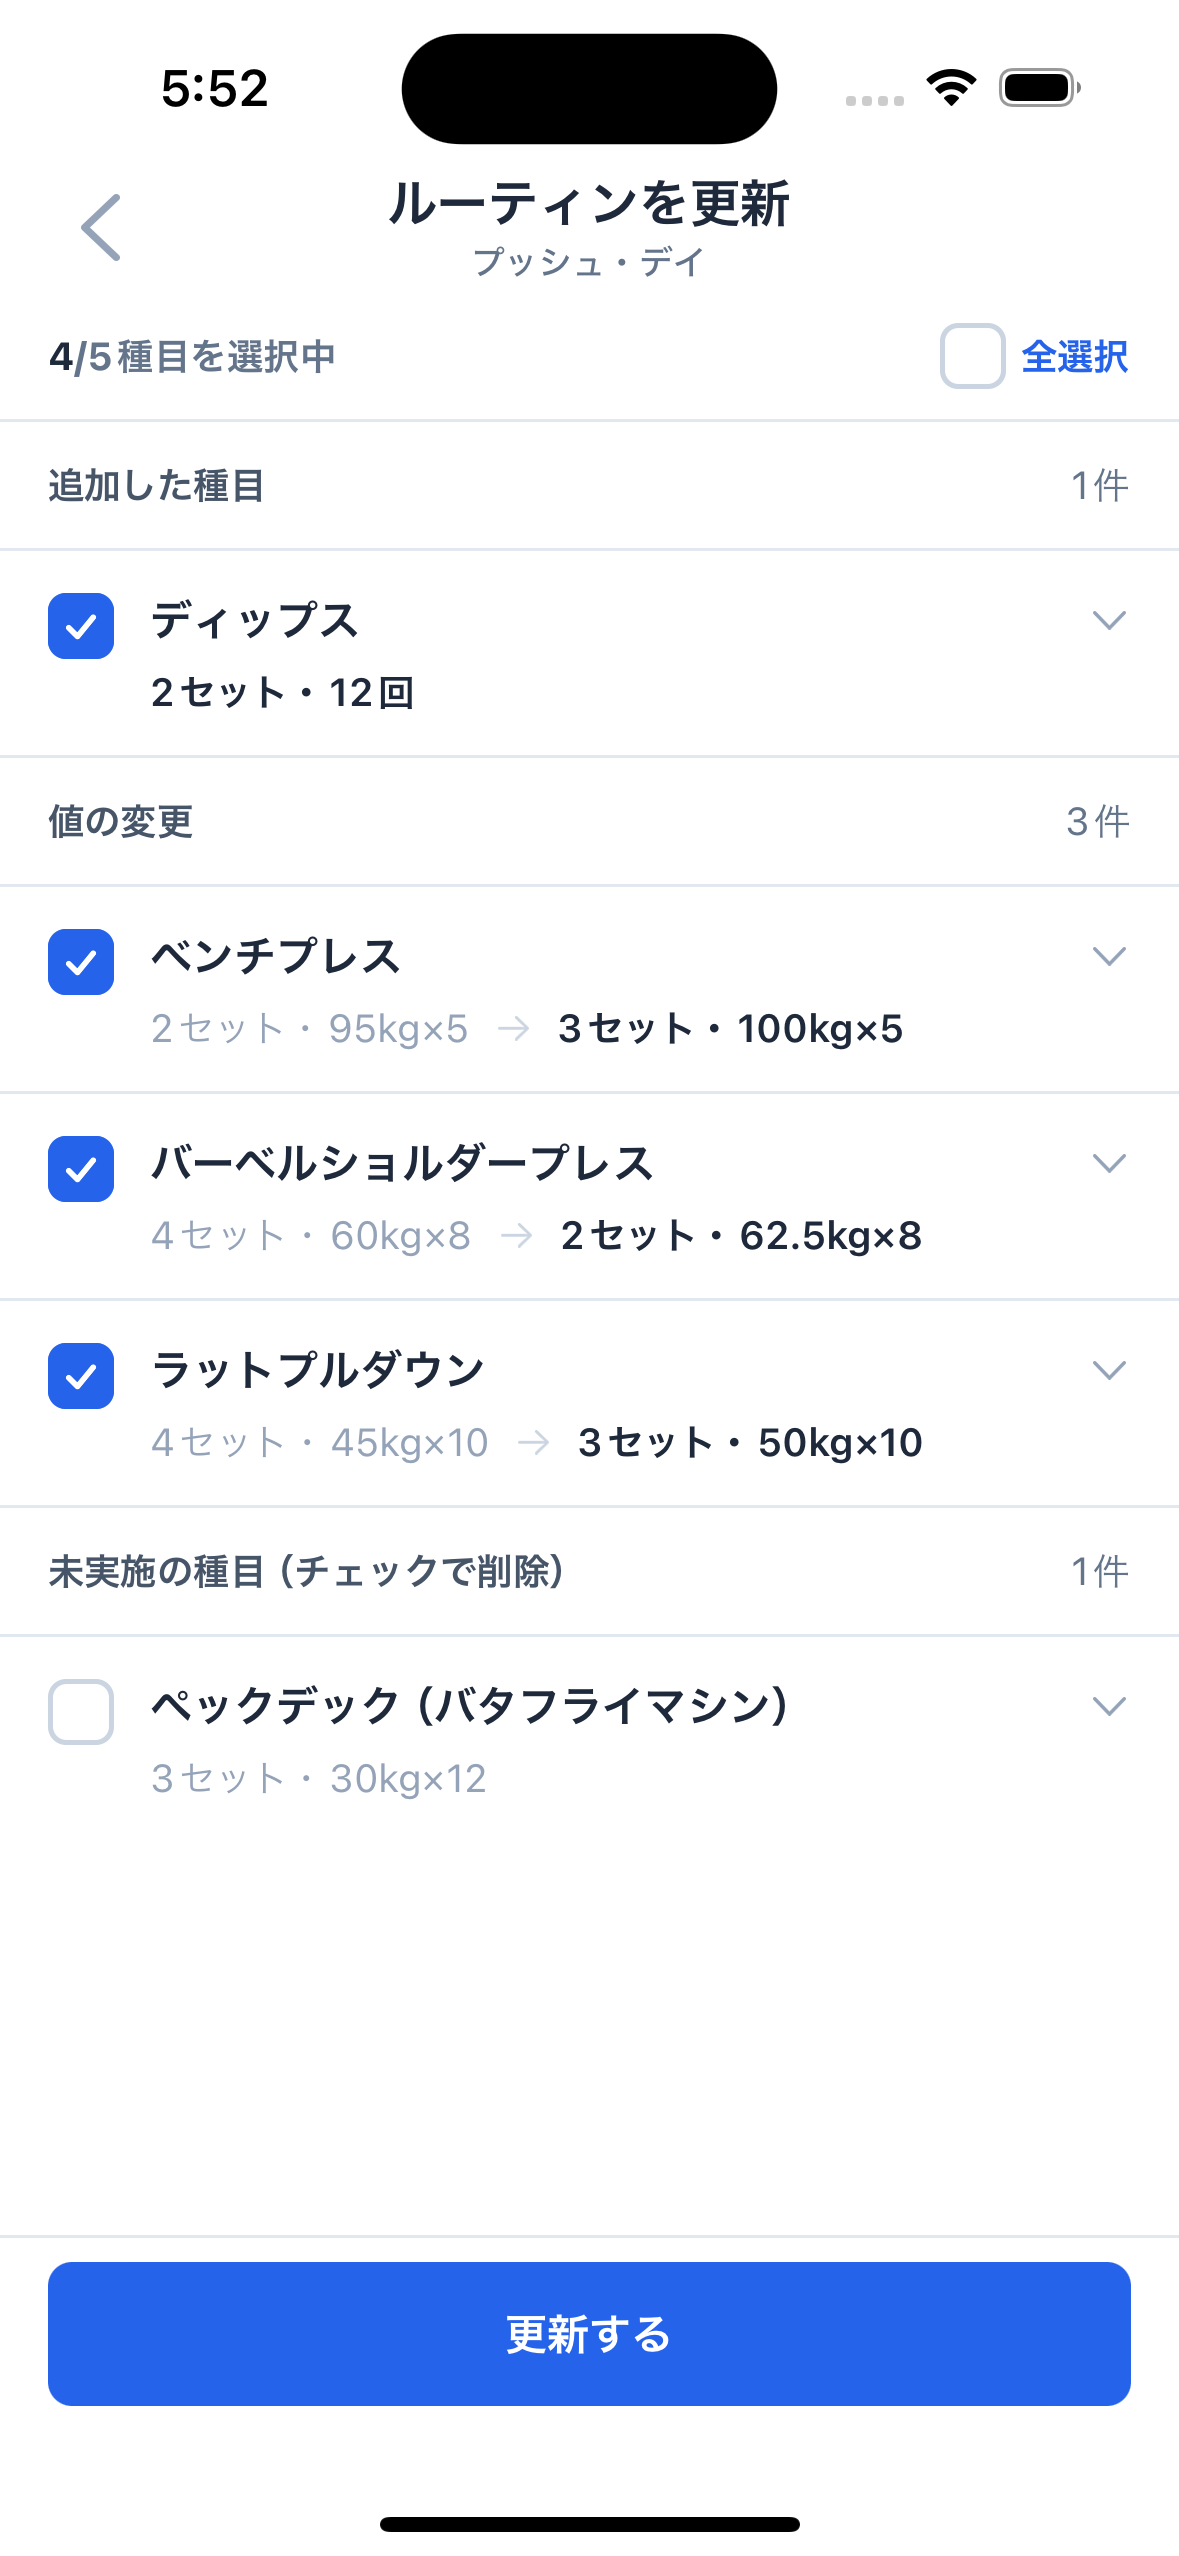
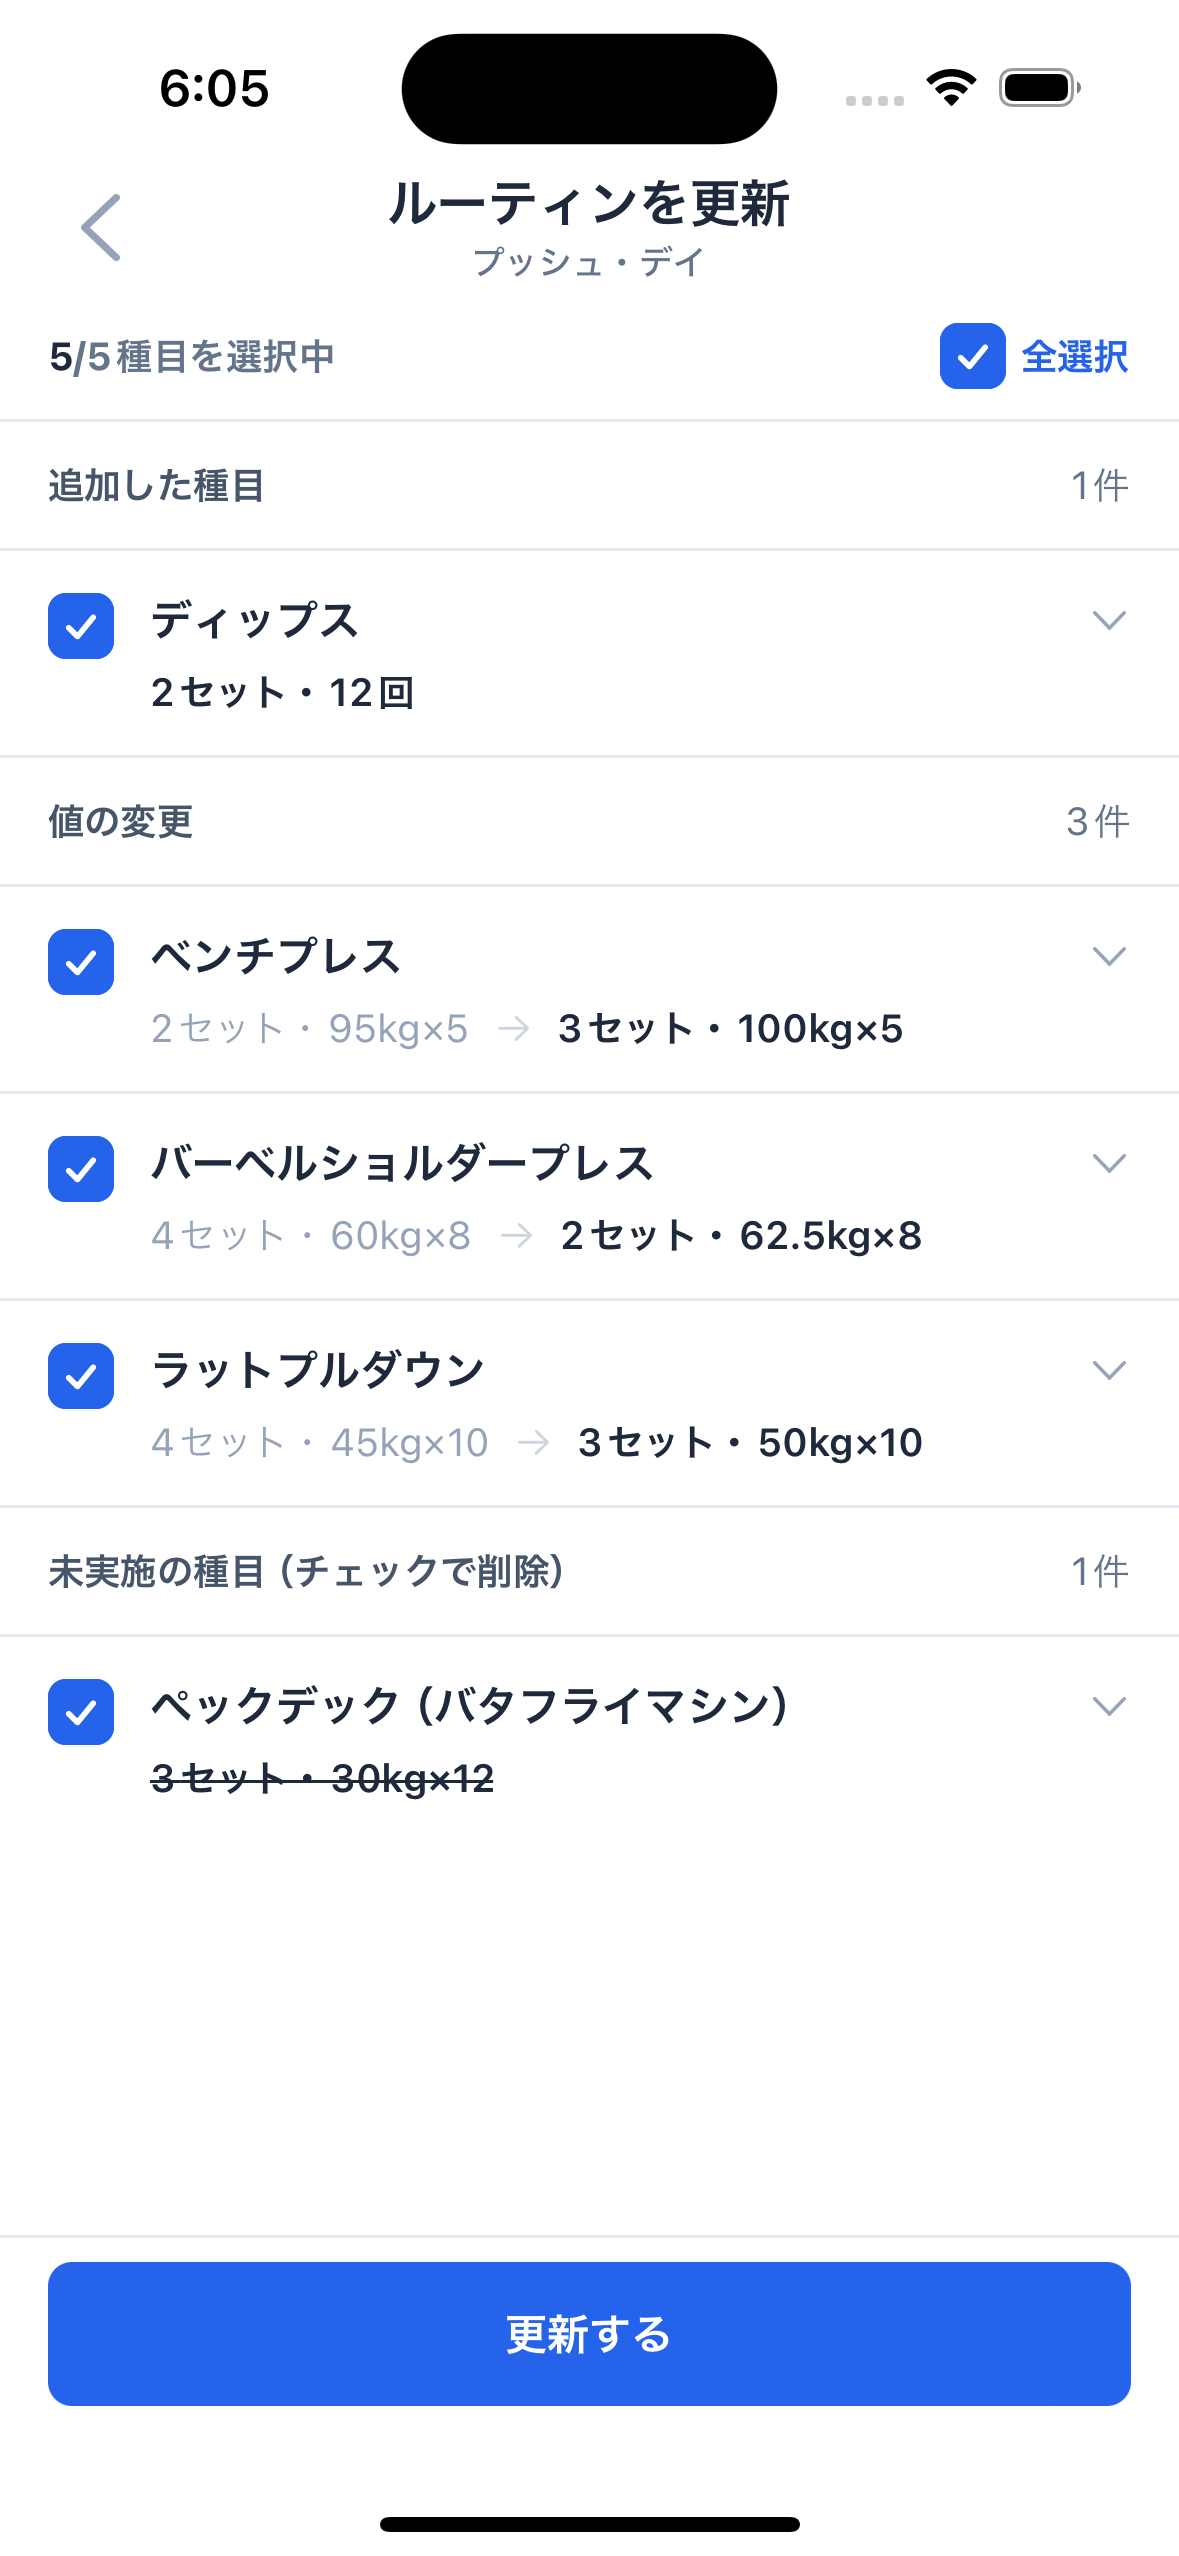
Check everything by default, skipped exercises included
Someone who opened this screen came to update; the values are on the
row to read. 未実施 no longer starts unchecked.

That does mean confirming without reading now drops an exercise you
merely ran out of time for, and there is no undo yet.

diff --git a/app/routine/update/[id].tsx b/app/routine/update/[id].tsx
@@ -22,10 +22,9 @@ type Section = { title: string; exercises: DiffExercise[] };
  * ルーティンのテンプレートと今日の実績の差分を種目単位で並べ、チェックしたものだけを反映する。
  * **確定ボタンを押すまでルーティンは一切変わらない。**
  *
- * 既定チェックは 追加=ON / 値の変更=ON / 未実施=OFF。未実施だけ既定オフなのは、
- * その日やらなかっただけの種目を型から消すのが多くの場合やってほしくない操作だから。
- * 下がった値も一律ONにするのは、確認画面まで来た人は「更新しに来ている」ため
- * （個々の値は行の「ルーティン → 今日」で確認できる）。
+ * **既定は全チェック**（未実施の種目も含む）。確認画面まで来た人は「更新しに来ている」ため、
+ * 個々の値は行の「変更前 → 変更後」で確認できるという前提（2026-08-07 ユーザー判断。
+ * それまでは未実施だけ既定オフだった）。
  */
 export default function RoutineUpdateScreen() {
   const { id, sessionId: sessionIdParam } = useLocalSearchParams<{ id: string; sessionId: string }>();
@@ -66,11 +65,9 @@ export default function RoutineUpdateScreen() {
   const diffKey = allKeys.join('|');
   const selection: DiffSelection = useMemo(() => {
     if (selectionState?.key === diffKey) return selectionState.value;
-    const defaults = new Set<string>();
-    for (const e of resolved?.added ?? []) defaults.add(e.key);
-    for (const e of resolved?.changed ?? []) defaults.add(e.key);
-    return { exercises: defaults, sets: new Map() };
-  }, [selectionState, diffKey, resolved]);
+    // 既定は全チェック（未実施の種目も含む）
+    return { exercises: new Set(allKeys), sets: new Map() };
+  }, [selectionState, diffKey, allKeys]);
 
   const allSelected = allKeys.length > 0 && selection.exercises.size === allKeys.length;
 
